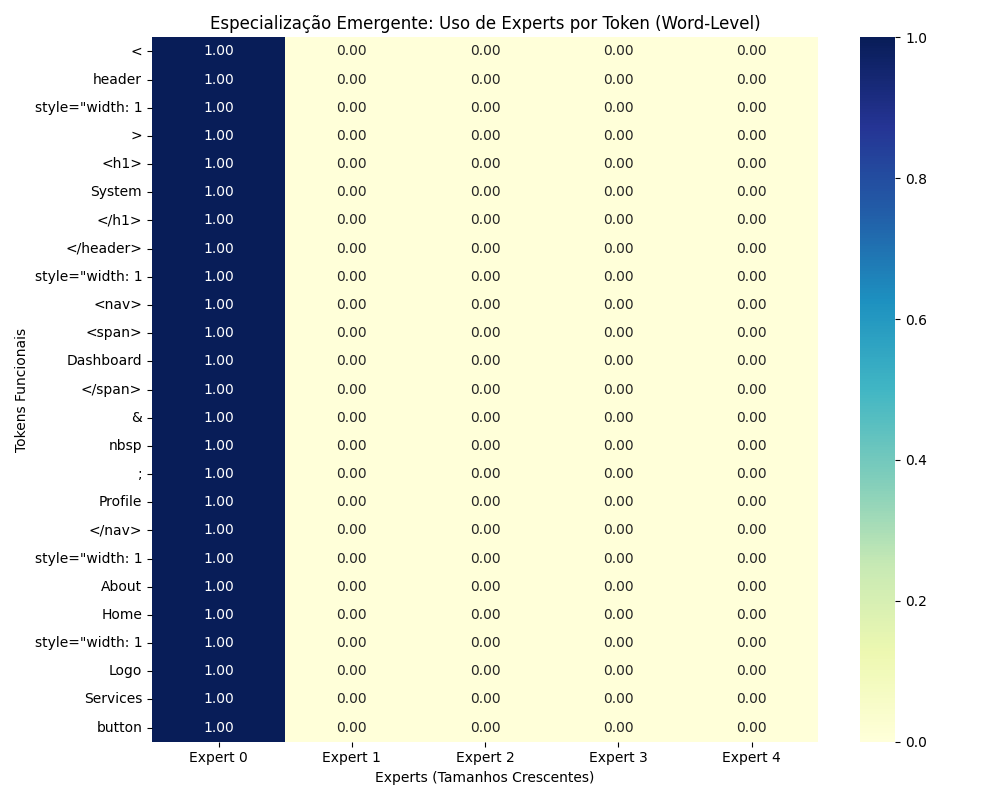
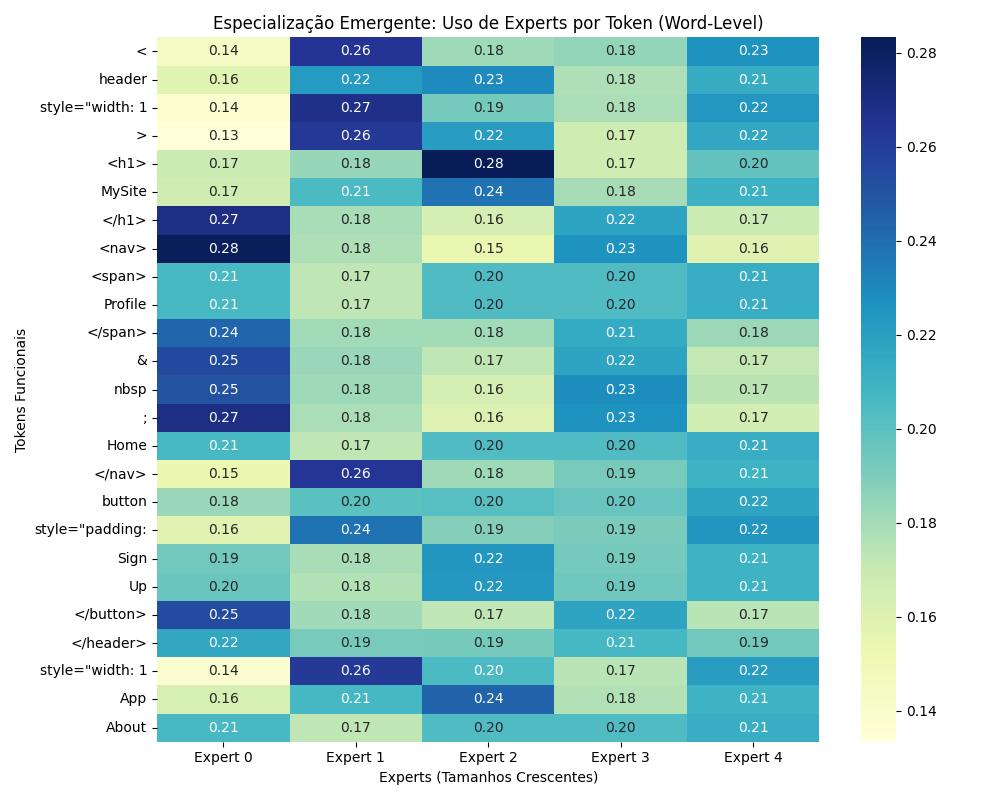
add

diff --git a/experimentos/V8_2_MultimodalArchitecture.py b/experimentos/V8_2_MultimodalArchitecture.py
@@ -32,7 +32,18 @@ class HeterogeneousMoE(nn.Module):
             x = x.view(-1, orig_shape[-1])
             
         logits = self.router(x)
+        
+        # 1. Noisy Routing (apenas no treinamento) para forçar exploração
+        if self.training:
+            noise = torch.randn_like(logits) * 0.05
+            logits = logits + noise
+            
         gate_probs = F.softmax(logits, dim=-1)
+        
+        # 2. Load Balancing Loss para punir colapso
+        importance = gate_probs.sum(dim=0)
+        mean_importance = importance.mean()
+        bal_loss = 0.05 * ((importance - mean_importance)**2).mean()
         
         # Top-K Routing
         topk_probs, topk_indices = torch.topk(gate_probs, self.top_k, dim=-1)
@@ -53,7 +64,7 @@ class HeterogeneousMoE(nn.Module):
             out = out.view(orig_shape[0], orig_shape[1], -1)
             gate_probs = gate_probs.view(orig_shape[0], orig_shape[1], -1)
             
-        return out, gate_probs
+        return out, gate_probs, bal_loss
 
 class V8_ImageToCode_Model(nn.Module):
     def __init__(self, vocab_size, embed_dim=128, lstm_dim=256, expert_sizes=[16, 32, 64, 128, 256]):
@@ -104,12 +115,12 @@ class V8_ImageToCode_Model(nn.Module):
         combined_context = torch.cat([v_context_expanded, lstm_out], dim=-1) # [B, Seq, lstm_dim * 2]
         
         # 4. Roteamento pelo MoE
-        moe_out, gate_probs = self.moe(combined_context) # [B, Seq, lstm_dim]
+        moe_out, gate_probs, bal_loss = self.moe(combined_context) # [B, Seq, lstm_dim]
         
         # 5. Previsão do Próximo Token
         logits = self.fc_out(moe_out) # [B, Seq, vocab_size]
         
-        return logits, gate_probs
+        return logits, gate_probs, bal_loss
 
 def test_architecture():
     print("Testando Arquitetura Multimodal V8_2...")
@@ -124,11 +135,12 @@ def test_architecture():
     model = V8_ImageToCode_Model(vocab_size=vocab_size)
     
     print(f"Alimentando modelo com Imagens {images.shape} e Tokens {tokens.shape}")
-    logits, gate_probs = model(images, tokens)
+    logits, gate_probs, bal_loss = model(images, tokens)
     
     print("\n[Sucesso] Forward Pass Concluído.")
     print(f"Logits gerados: {logits.shape} -> [Batch, Seq_Len, Vocab_Size]")
     print(f"Gate Probs:     {gate_probs.shape} -> [Batch, Seq_Len, N_Experts]")
+    print(f"Balancing Loss: {bal_loss.item():.4f}")
     print("\nA Arquitetura está pronta para medir a especialização visual vs sintática.")
 
 if __name__ == "__main__":

diff --git a/experimentos/V8_4_HeaderTrainer.py b/experimentos/V8_4_HeaderTrainer.py
@@ -144,10 +144,12 @@ def main():
             targets = seqs[:, 1:]
             
             optimizer.zero_grad()
-            logits, gate_probs = model(images, inputs)
+            logits, gate_probs, bal_loss = model(images, inputs)
             
             # Formatar para CrossEntropy: [Batch * Seq_Len, Vocab]
-            loss = criterion(logits.reshape(-1, vocab_size), targets.reshape(-1))
+            ce_loss = criterion(logits.reshape(-1, vocab_size), targets.reshape(-1))
+            loss = ce_loss + bal_loss # Adiciona a penalidade de desbalanceamento
+            
             loss.backward()
             optimizer.step()
             
@@ -164,7 +166,7 @@ def main():
     with torch.no_grad():
         images, seqs = next(iter(dataloader))
         inputs = seqs[:, :-1]
-        logits, gate_probs = model(images, inputs) # gate_probs: [Batch, Seq, Experts=5]
+        logits, gate_probs, _ = model(images, inputs) # gate_probs: [Batch, Seq, Experts=5]
         
         # Iterar sobre todos os batches e sequencias
         for b in range(inputs.size(0)):

diff --git a/headerTraining.md b/headerTraining.md
@@ -38,3 +38,106 @@ Para forçar a especialização emergente, precisamos quebrar o monopólio do Ex
 2. **Noisy Routing:** Adicionar ruído às probabilidades (Gate Probs) para forçar o roteador a testar outros experts nos estágios iniciais do treinamento.
 
 A fundação do V8 está validada: o pipeline aprende. Agora o trabalho é calibrar o Roteador para induzir a especialização distribuída.
+
+resultado Load Balancing Loss e Noisy Routing:
+
+Iniciando Treinamento Intenso (10 Épocas para decantação estatística)...
+Época 1 | Batch 0 | Loss: 7.8707
+Época 1 | Batch 20 | Loss: 4.6706
+Época 1 | Batch 40 | Loss: 3.9724
+Época 1 | Batch 60 | Loss: 3.4957
+Época 1 | Batch 80 | Loss: 3.3735
+Época 1 | Batch 100 | Loss: 2.7134
+Época 1 | Batch 120 | Loss: 1.9509
+Época 2 | Batch 0 | Loss: 1.8288
+Época 2 | Batch 20 | Loss: 1.3815
+Época 2 | Batch 40 | Loss: 1.0115
+Época 2 | Batch 60 | Loss: 0.9988
+Época 2 | Batch 80 | Loss: 0.9892
+Época 2 | Batch 100 | Loss: 0.9818
+Época 2 | Batch 120 | Loss: 0.9554
+Época 3 | Batch 0 | Loss: 1.0137
+Época 3 | Batch 20 | Loss: 0.8246
+Época 3 | Batch 40 | Loss: 0.8942
+Época 3 | Batch 60 | Loss: 0.8712
+Época 3 | Batch 80 | Loss: 0.9137
+Época 3 | Batch 100 | Loss: 0.8172
+Época 3 | Batch 120 | Loss: 0.8209
+Época 4 | Batch 0 | Loss: 0.8112
+Época 4 | Batch 20 | Loss: 0.8215
+Época 4 | Batch 40 | Loss: 0.8383
+Época 4 | Batch 60 | Loss: 0.8051
+Época 4 | Batch 80 | Loss: 0.8181
+Época 4 | Batch 100 | Loss: 0.7805
+Época 4 | Batch 120 | Loss: 0.8030
+Época 5 | Batch 0 | Loss: 0.7761
+Época 5 | Batch 20 | Loss: 0.8360
+Época 5 | Batch 40 | Loss: 0.7675
+Época 5 | Batch 60 | Loss: 0.7638
+Época 5 | Batch 80 | Loss: 0.7679
+Época 5 | Batch 100 | Loss: 0.8401
+Época 5 | Batch 120 | Loss: 0.7842
+Época 6 | Batch 0 | Loss: 0.7351
+Época 6 | Batch 20 | Loss: 0.7429
+Época 6 | Batch 40 | Loss: 0.7204
+Época 6 | Batch 60 | Loss: 0.7547
+Época 6 | Batch 80 | Loss: 0.7692
+Época 6 | Batch 100 | Loss: 0.7208
+Época 6 | Batch 120 | Loss: 0.7973
+Época 7 | Batch 0 | Loss: 0.7943
+Época 7 | Batch 20 | Loss: 0.7044
+Época 7 | Batch 40 | Loss: 0.7078
+Época 7 | Batch 60 | Loss: 0.7901
+Época 7 | Batch 80 | Loss: 0.7250
+Época 7 | Batch 100 | Loss: 0.7428
+Época 7 | Batch 120 | Loss: 0.7256
+Época 8 | Batch 0 | Loss: 0.7465
+Época 8 | Batch 20 | Loss: 0.6557
+Época 8 | Batch 40 | Loss: 0.7104
+Época 8 | Batch 60 | Loss: 0.7172
+Época 8 | Batch 80 | Loss: 0.6802
+Época 8 | Batch 100 | Loss: 0.7612
+Época 8 | Batch 120 | Loss: 0.7247
+Época 9 | Batch 0 | Loss: 0.6502
+Época 9 | Batch 20 | Loss: 0.6694
+Época 9 | Batch 40 | Loss: 0.6908
+Época 9 | Batch 60 | Loss: 0.6868
+Época 9 | Batch 80 | Loss: 0.6915
+Época 9 | Batch 100 | Loss: 0.6754
+Época 9 | Batch 120 | Loss: 0.7123
+Época 10 | Batch 0 | Loss: 0.6717
+Época 10 | Batch 20 | Loss: 0.6255
+Época 10 | Batch 40 | Loss: 0.6122
+Época 10 | Batch 60 | Loss: 0.7122
+Época 10 | Batch 80 | Loss: 0.6476
+Época 10 | Batch 100 | Loss: 0.7838
+Época 10 | Batch 120 | Loss: 0.6379
+
+Treinamento concluído. Extraindo Mapa de Especialização Funcional...
+
+==================================================
+RELATÓRIO ESTATÍSTICO DE ESPECIALIZAÇÃO FUNCIONAL
+==================================================
+
+[Expert 0] Dominou 5.0 tokens únicos:
+  -> 100.0% pertencem à categoria: HTML_ESTRUTURAL
+
+[Expert 1] Dominou 12.0 tokens únicos:
+  -> 8.3% pertencem à categoria: HTML_ESTRUTURAL
+  -> 91.7% pertencem à categoria: CSS_LAYOUT
+
+[Expert 2] Dominou 5.0 tokens únicos:
+  -> 20.0% pertencem à categoria: HTML_ESTRUTURAL
+  -> 80.0% pertencem à categoria: CONTEUDO_TEXTO
+
+[Expert 3] Não dominou estatisticamente nenhuma categoria principal (Possível Colapso ou Memória Passiva).
+
+[Expert 4] Dominou 7.0 tokens únicos:
+  -> 14.3% pertencem à categoria: HTML_ESTRUTURAL
+  -> 85.7% pertencem à categoria: CONTEUDO_TEXTO
+==================================================
+
+[Artefato Crítico Gerado] Heatmap salvo em: graficos/expert_heatmap_v8.png
+
+filipe@eufilip MINGW64 /f/neuronios quanticos (main)
+$